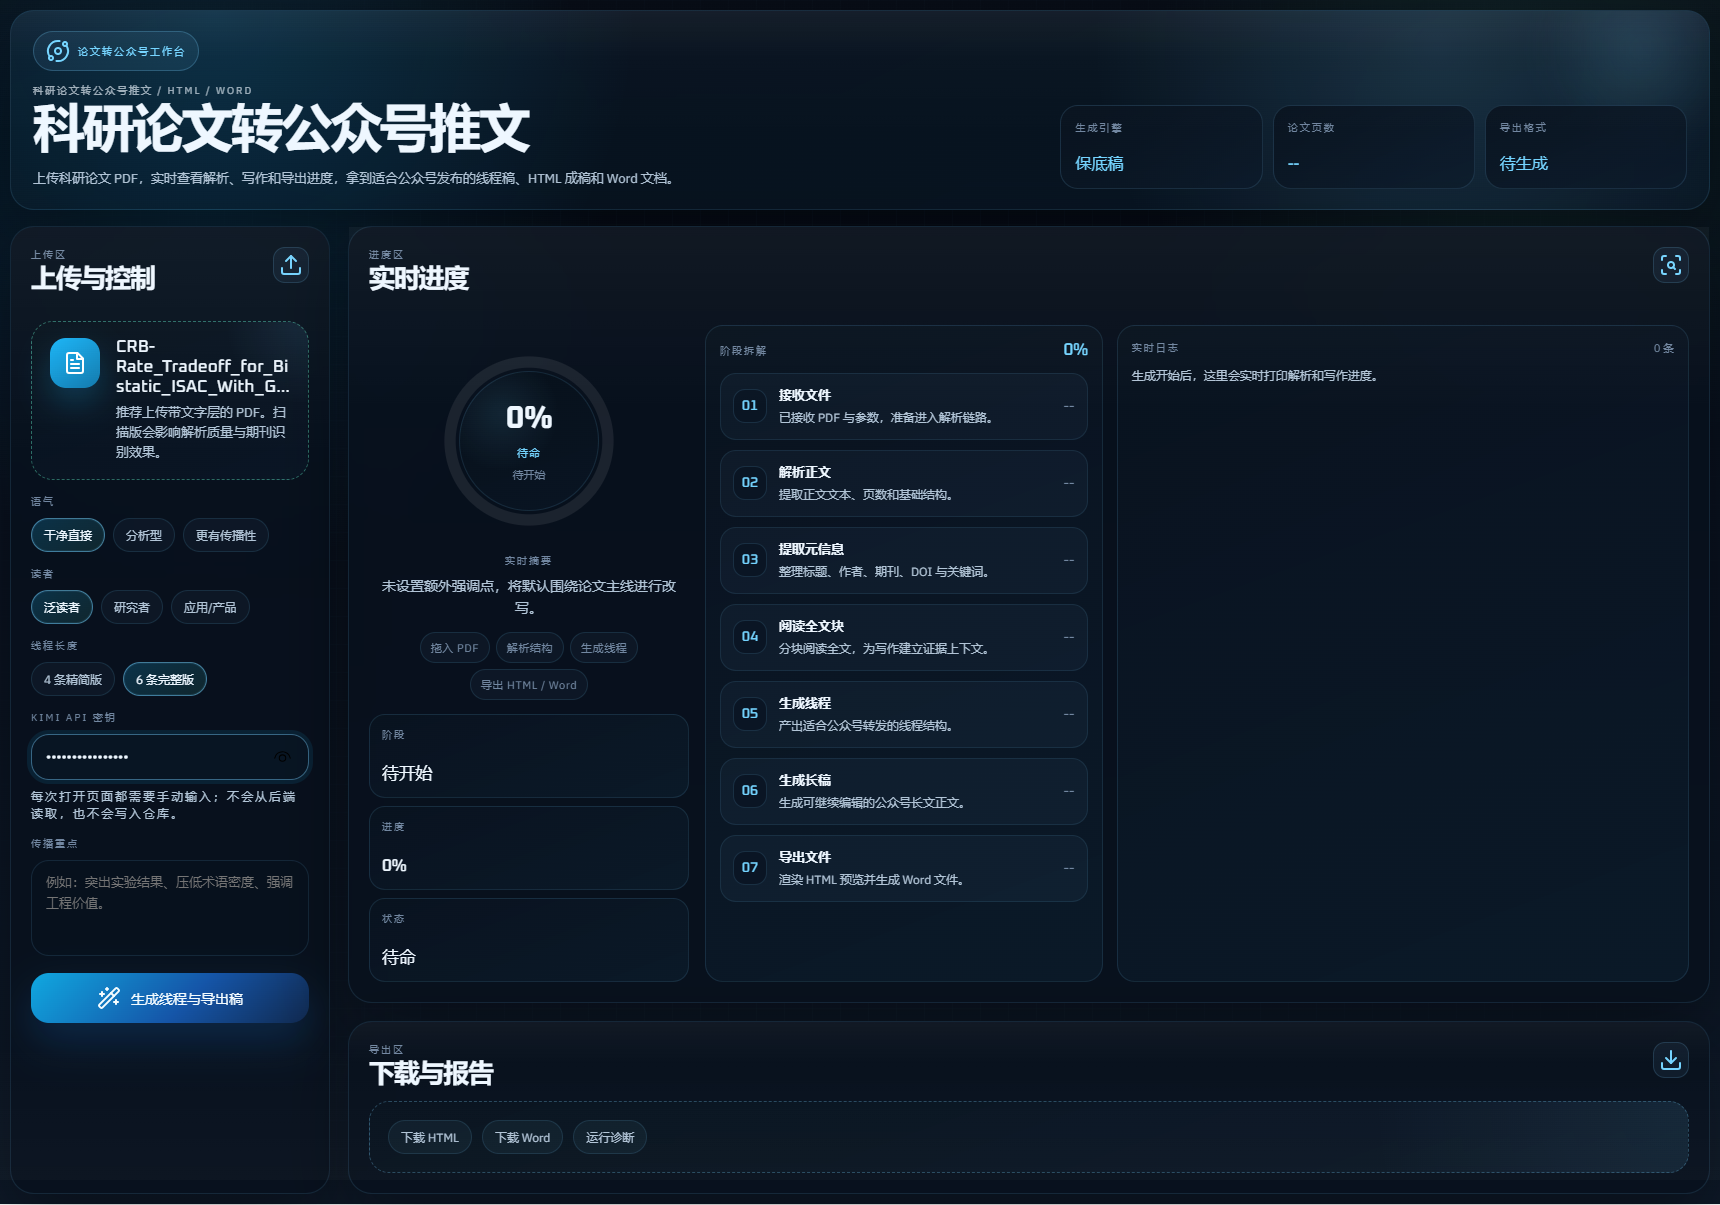
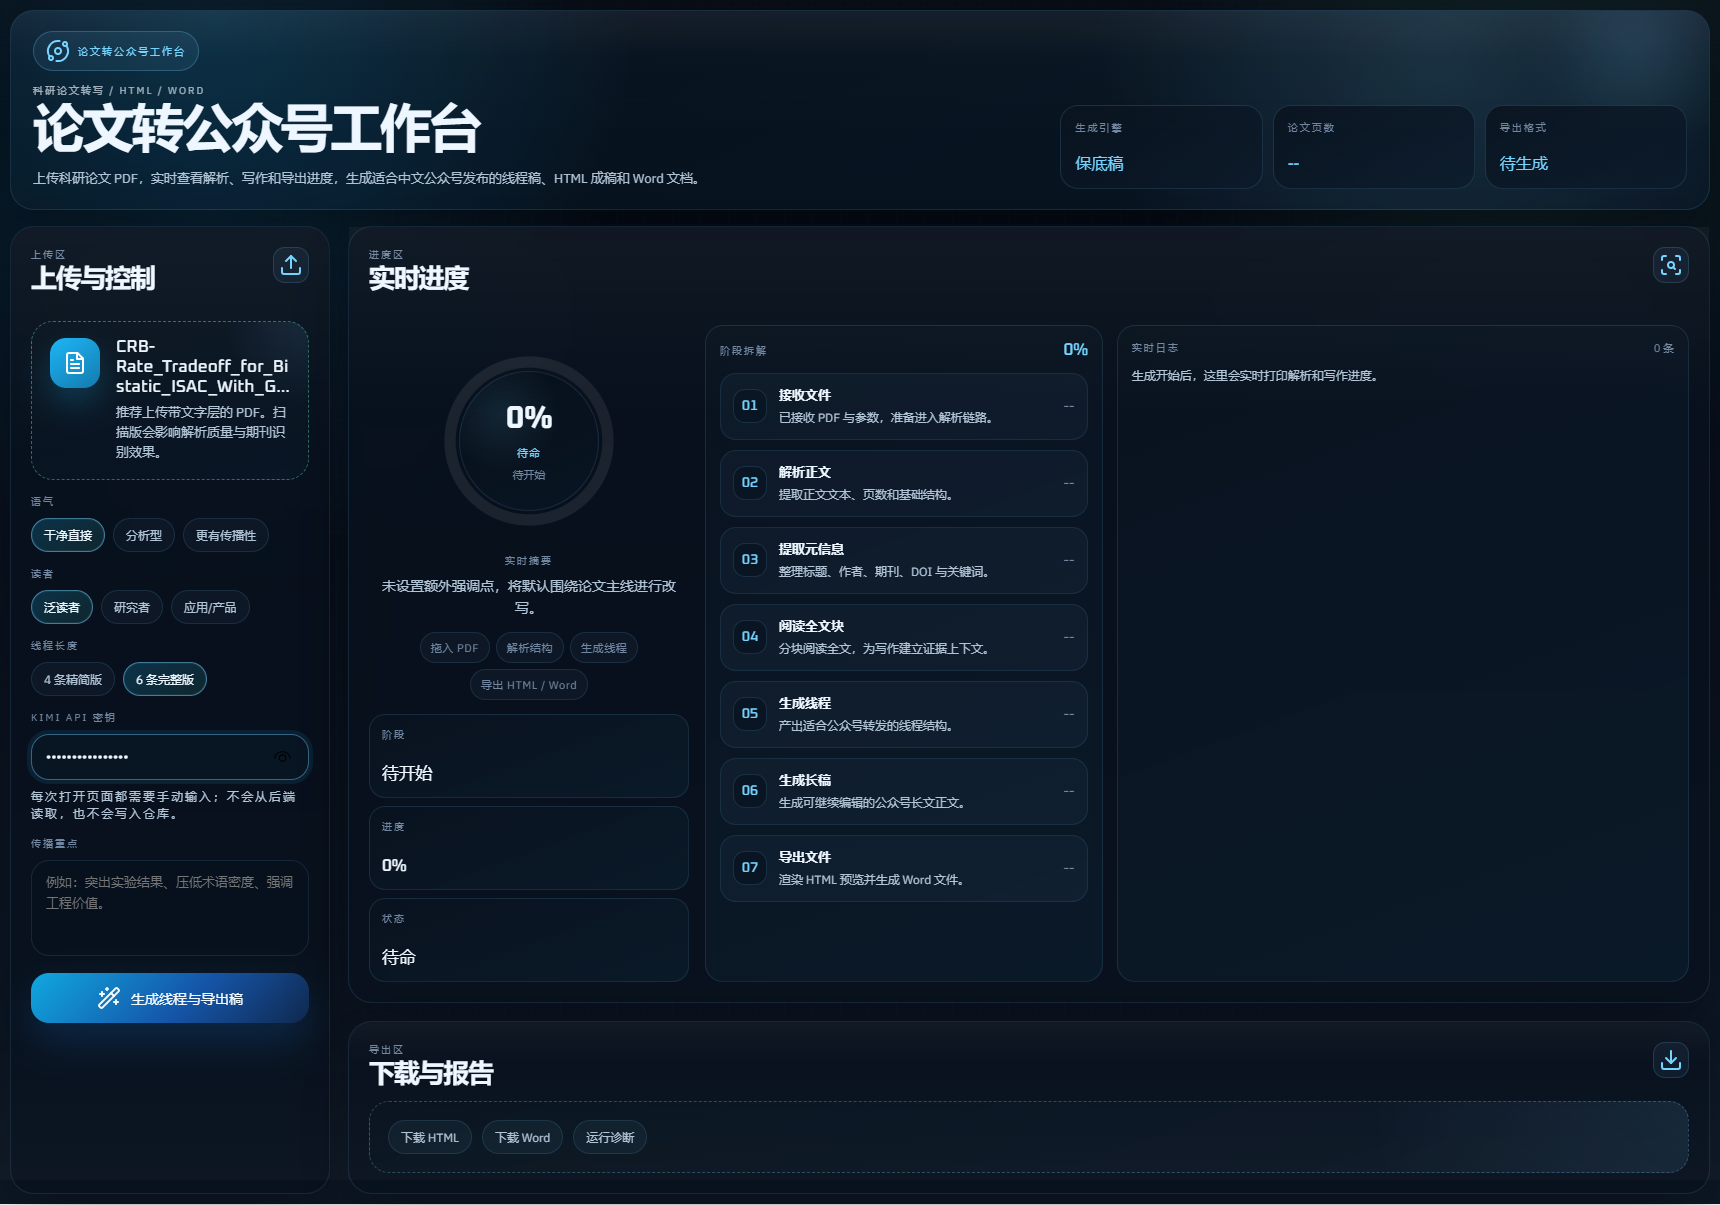
Rename project to 中文工作台

Changed region(s): [[0.0, 0.0614, 0.4006, 0.1535]]

diff --git a/backend/server.js b/backend/server.js
@@ -412,7 +412,7 @@ async function lookupDoiMetadata(doi) {
   try {
     const response = await axios.get(`https://api.crossref.org/works/${encodeURIComponent(cleanDoi)}`, {
       timeout: 10000,
-      headers: { 'User-Agent': 'research-workbench/1.0 metadata' }
+      headers: { 'User-Agent': 'paper-to-wechat-workbench/1.0 metadata' }
     });
     const message = response.data?.message || {};
     return {
@@ -435,7 +435,7 @@ async function lookupMetadataByTitle(title) {
     const response = await axios.get('https://api.crossref.org/works', {
       params: { 'query.title': queryTitle, rows: 5 },
       timeout: 12000,
-      headers: { 'User-Agent': 'research-workbench/1.0 metadata' }
+      headers: { 'User-Agent': 'paper-to-wechat-workbench/1.0 metadata' }
     });
     const items = Array.isArray(response.data?.message?.items) ? response.data.message.items : [];
     const best = items
@@ -1516,5 +1516,5 @@ app.use((error, _req, res, _next) => {
 });
 
 app.listen(PORT, () => {
-  console.log(`Research Workbench API running on port ${PORT}`);
+  console.log(`论文转公众号工作台 API 已启动，端口 ${PORT}`);
 });

diff --git a/frontend/app/page.tsx b/frontend/app/page.tsx
@@ -93,10 +93,10 @@ const RESULT_RECOVERY_RETRIES = 8;
 const RESULT_RECOVERY_DELAY_MS = 1500;
 const RESULT_STORAGE_KEY = 'research-workbench:last-result:v3';
 const APP_BADGE = '论文转公众号工作台';
-const APP_TITLE = '科研论文转公众号推文';
-const APP_KICKER = '科研论文转公众号推文 / HTML / Word';
+const APP_TITLE = '论文转公众号工作台';
+const APP_KICKER = '科研论文转写 / HTML / Word';
 const APP_DESCRIPTION =
-  '上传科研论文 PDF，实时查看解析、写作和导出进度，拿到适合公众号发布的线程稿、HTML 成稿和 Word 文档。';
+  '上传科研论文 PDF，实时查看解析、写作和导出进度，生成适合中文公众号发布的线程稿、HTML 成稿和 Word 文档。';
 
 const FLOW_STEPS = ['拖入 PDF', '解析结构', '生成线程', '导出 HTML / Word'];
 const PROGRESS_DETAIL_STAGES = [

diff --git a/backend/docx-builder.js b/backend/docx-builder.js
@@ -161,7 +161,7 @@ async function buildDocxBuffer({ title, article, metadata, keywords, post }) {
   ];
 
   const document = new Document({
-    creator: '科研论文转公众号推文',
+    creator: '论文转公众号工作台',
     title,
     description: '科研论文公众号长文 Word 稿件',
     sections: [

diff --git a/frontend/app/layout.tsx b/frontend/app/layout.tsx
@@ -16,7 +16,7 @@ const displayFont = Oxanium({
 });
 
 export const metadata: Metadata = {
-  title: '科研论文转公众号推文',
+  title: '论文转公众号工作台',
   description: '上传科研论文 PDF，生成适合中文公众号发布的推文线程、HTML 排版稿和 Word 文档。'
 };
 

diff --git a/README.md b/README.md
@@ -1,4 +1,4 @@
-# 科研论文转公众号推文
+# 论文转公众号工作台
 
 把科研论文 PDF 快速转成适合中文公众号发布的推文线程、长文首稿、HTML 排版稿和 Word 交付稿。
 
@@ -45,7 +45,6 @@
 - 应用不会使用后端保存的默认 Kimi key
 - 必须在前端页面手动输入你自己的 `Kimi API Key`
 - 密钥只在当前页面请求中使用，不会写入仓库
-- `backend/.env` 不应提交到 GitHub
 
 ## 项目结构
 
